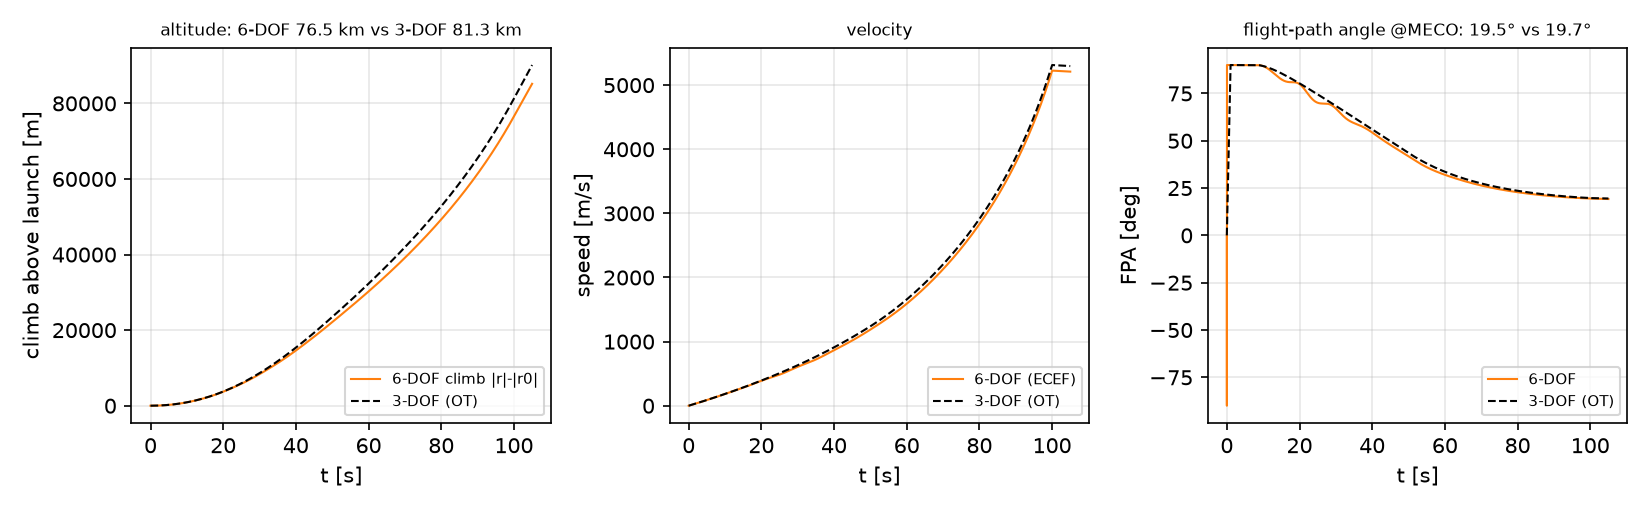
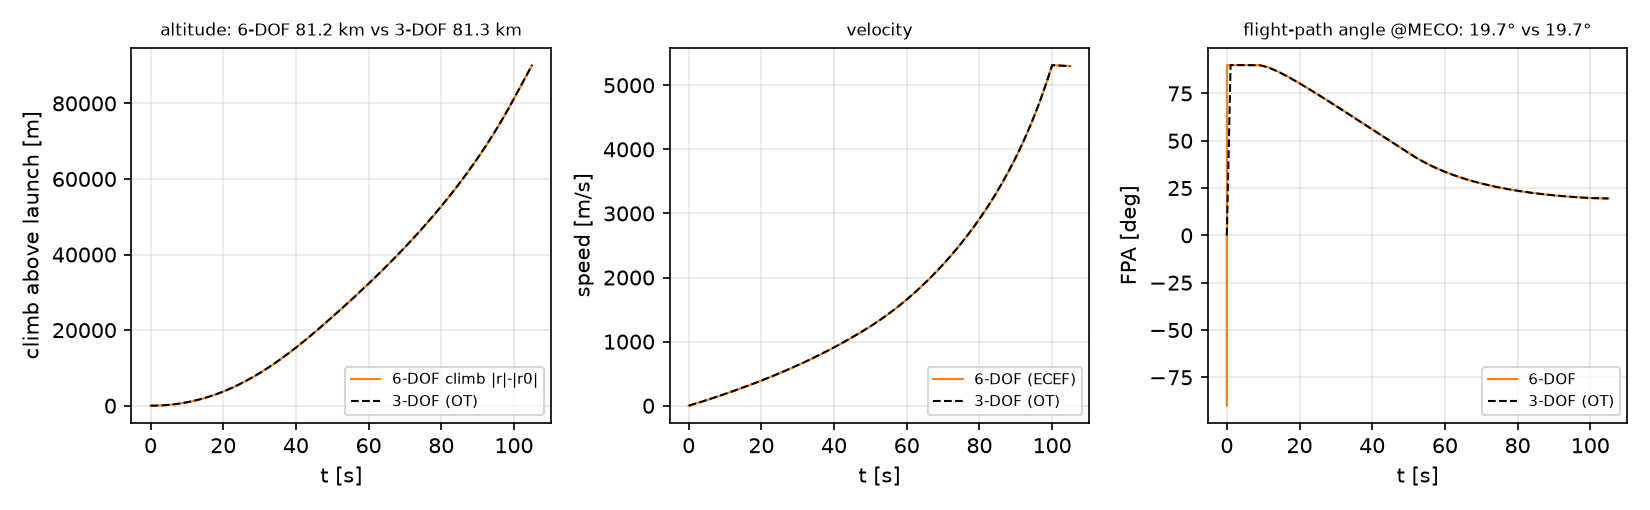
fix(flightlab): correct FL-403 quaternion->DCM and launch IC (FL-403, #208)
tracking.dcm_from_quat returned the transpose of the Tec2b matrix that
jsbsim_driver.quat_from_dcm encodes, and the launch IC roll (phi=90) had
been tuned until that wrong matrix read zero error. In JSBSim's real
attitude the stage sat 180 deg off in roll, so the pitch-over was steered
about the wrong body axes: the ~24 deg early "program-infeasibility
transient" in the ADR was this bug, not the program (the demand is a
constant 1.71 deg/s pitch-over, and the old run used <0.9 deg of the
+-5 deg gimbal while the error was 20 deg).

- dcm_from_quat is now the exact inverse of quat_from_dcm
- launch IC (theta, psi, phi) = (90, 90, -90), checked against Tec2b
  directly (body x up / y south / z east; nose-down tips the nose east)
- same controller and gains: whole-burn error 24.0 -> 0.51 deg, settled
  1.12 -> 0.061 deg, MECO deviation -4.7 km / -90 m/s -> -51 m / -2 m/s
- tests: DCM round trip, IC vs Tec2b, whole-burn bound 30 -> 2 deg,
  commands within travel, MECO bounds 6 km/200 m/s/1 deg -> 500 m/20 m/s/0.2 deg
- benchmark JSON and plots regenerated; ADR and findings corrected (GO
  criteria unchanged; E5 rate-feasibility item downgraded)

diff --git a/tests/test_flightlab_sixdof_tracking_jsbsim.py b/tests/test_flightlab_sixdof_tracking_jsbsim.py
@@ -6,18 +6,21 @@ closed-loop tests need the recorded 3-DOF reference fixture and ``jsbsim``
 skip cleanly when missing.
 
 Declared GO criteria (ADR docs/adr/flightlab-0001-jsbsim-6dof.md):
-* settled attitude tracking (t >= 60 s, after the program-shaping window):
-  max <= 2 deg, RMS <= 0.6 deg -- the early-window error is the documented
-  program-infeasibility transient near vertical, reported but not gating;
+* settled attitude tracking (t >= 60 s): max <= 2 deg, RMS <= 0.6 deg;
 * gimbal saturation 0 % of the burn, command never beyond travel limits;
 * stable integration: dt 0.01 vs 0.005 agree, no non-finite states;
-* MECO state deviation vs the 3-DOF reference within the (generous,
-  transient-inclusive) bounds below.
+* MECO state deviation vs the 3-DOF reference within the bounds below.
+
+Regression guards added with the quaternion->DCM fix: the whole-burn error
+bound is the same 2 deg (it was 30 deg while a transposed DCM plus a launch
+IC tuned against it produced a ~24 deg early "transient"), and the MECO
+bounds sit ~10x above the measured deviations (51 m / 2 m/s / 0.02 deg).
 """
 from __future__ import annotations
 
 import math
 import os
+import warnings
 
 import numpy as np
 import pytest
@@ -32,23 +35,33 @@ pytestmark = pytest.mark.skipif(
            "(scripts/fl403_record_reference.py)")
 
 from orbitopt.flightlab.adapters.opentsiolkovsky import AttitudePoint, Vehicle  # noqa: E402
+from orbitopt.flightlab.sixdof.jsbsim_driver import (  # noqa: E402
+    InitialConditions,
+    SixDofSim,
+    quat_from_dcm,
+)
 from orbitopt.flightlab.sixdof.tracking import (  # noqa: E402
     AttitudeProgram,
     ReferenceTrajectory,
     chart_attitude,
     chart_error_deg,
     attitude_error_body,
+    dcm_from_quat,
     run_tracking_spike,
     so3_log,
 )
 
+LAUNCH_IC = InitialConditions(lat_geod_deg=0.0, lon_deg=0.0, alt_m=0.0,
+                              pitch_deg=90.0, heading_deg=90.0, roll_deg=-90.0)
+
 SETTLE_T_S = 60.0
 SETTLED_MAX_DEG = 2.0
 SETTLED_RMS_DEG = 0.6
-FULL_MAX_DEG = 30.0            # transient-inclusive, program-shaping window
-D_ALT_TOL_M = 6000.0           # transient-inclusive MECO deviation bounds
-D_SPEED_TOL_M_S = 200.0
-D_FPA_TOL_DEG = 1.0
+FULL_MAX_DEG = 2.0             # whole burn, pitch-over kick included
+D_ALT_TOL_M = 500.0            # MECO deviation bounds vs the 3-DOF reference
+D_SPEED_TOL_M_S = 20.0
+D_FPA_TOL_DEG = 0.2
+GIMBAL_TRAVEL_DEG = 5.0
 DT_CONVERGE_ALT_M = 300.0      # dt 0.01 vs 0.005 altitude agreement
 
 
@@ -80,18 +93,54 @@ def test_so3_log_identity():
     assert np.linalg.norm(so3_log(np.eye(3))) < 1e-12
 
 
+def _tec2b(sim):
+    with warnings.catch_warnings():  # get_Tec2b returns a deprecated numpy.matrix
+        warnings.simplefilter("ignore", PendingDeprecationWarning)
+        return np.asarray(sim.fdm.get_propagate().get_Tec2b())
+
+
+def test_dcm_from_quat_inverts_quat_from_dcm():
+    # dcm_from_quat must rebuild exactly the matrix the driver encoded
+    # (Tec2b), not its transpose -- the transpose mis-steered FL-403.
+    rng = np.random.default_rng(7)
+    for _ in range(20):
+        q_mat, _ = np.linalg.qr(rng.normal(size=(3, 3)))
+        q_mat *= np.sign(np.linalg.det(q_mat))
+        assert np.allclose(dcm_from_quat(quat_from_dcm(q_mat)), q_mat, atol=1e-12)
+
+
+def test_launch_ic_matches_program_frame():
+    """Ground truth from JSBSim's own Tec2b (not through dcm_from_quat): at
+    (lat, lon) = (0, 0) ECEF x/y/z = up/east/north, and the program frame at
+    (el=90, az=90) is body x = up, y = south, z = east. A nose-down pitch
+    gimbal then tips the nose east, the program's pitch-over direction."""
+    sim = SixDofSim(0.01)
+    sim.initialize(LAUNCH_IC)
+    tec2b = _tec2b(sim)
+    assert np.allclose(tec2b, [[1, 0, 0], [0, 0, -1], [0, 1, 0]], atol=1e-6)
+    prog = AttitudeProgram.from_points([AttitudePoint(0.0, 90.0, 90.0),
+                                        AttitudePoint(1.0e6, 90.0, 90.0)])
+    assert np.linalg.norm(attitude_error_body(sim.samples[-1], prog)) < 1e-6
+    sim.ignite(1.0)
+    sim.run_for(3.0, lambda t, s: s.set_gimbal(-math.radians(0.2) if t >= 2.0 else 0.0, 0.0))
+    nose = _tec2b(sim)[0]
+    assert nose[1] > 1e-3 and abs(nose[2]) < 1e-6  # east, no north component
+
+
 def test_attitude_error_on_real_sample():
     prog, _, _ = _fixture()
-    # short no-control run: use the real sampled state (all conventions as
-    # the driver reports them) to test the error machinery, not its math
-    from orbitopt.flightlab.sixdof.jsbsim_driver import InitialConditions, SixDofSim
+    # short open-loop run: use the real sampled state (all conventions as
+    # the driver reports them) to test the error machinery, not its math.
+    # An uncontrolled vertical stage stays vertical, so a nose-down gimbal
+    # pulse tips it off the chart pole first.
     sim = SixDofSim(0.01)
-    sim.initialize(InitialConditions(lat_geod_deg=0.0, lon_deg=0.0, alt_m=0.0,
-                                     pitch_deg=90.0, heading_deg=90.0, roll_deg=90.0))
+    sim.initialize(LAUNCH_IC)
     sim.ignite(1.0)
-    sim.run_for(14.0, lambda t, s: None)  # pitch-over under way: chart not at the pole
+    sim.run_for(14.0, lambda t, s: s.set_gimbal(-math.radians(0.5) if 2.0 <= t < 4.0 else 0.0,
+                                                0.0))
     s = sim.samples[-1]
     az_a, el_a = chart_attitude(s)
+    assert math.degrees(el_a) < 85.0  # off the pole
 
     def prog_at(el_off):
         # chart_attitude reports radians; AttitudePoint takes degrees
@@ -113,7 +162,10 @@ def test_closed_loop_full_profile_tracking():
     assert m.finite
     assert m.att_err_max_deg <= FULL_MAX_DEG
     assert m.gimbal_sat_fraction_of_burn == 0.0
-    assert m.gimbal_max_deg < 5.0
+    assert m.gimbal_max_deg < GIMBAL_TRAVEL_DEG
+    burn = [s for s in res.samples if s["t_s"] <= meco]
+    assert max(max(abs(s["gimbal_pitch_cmd_rad"]), abs(s["gimbal_yaw_cmd_rad"]))
+               for s in burn) < math.radians(GIMBAL_TRAVEL_DEG)
     s_max, s_rms = _settled(res)
     assert s_max <= SETTLED_MAX_DEG
     assert s_rms <= SETTLED_RMS_DEG

diff --git a/src/orbitopt/flightlab/sixdof/tracking.py b/src/orbitopt/flightlab/sixdof/tracking.py
@@ -29,11 +29,12 @@ Controller
 geodesic attitude error :func:`attitude_error_body` (components in the
 actual body frame): ``a = kp*e + ki*I - kd*(omega - omega_ff)`` [rad/s^2]
 with the pitch channel's velocity feed-forward ``omega_ff_y = el_ff`` (the
-program's elevation slew). The chart-elevation law ``d(el)/dt = q*cos(el) +
-v_h/(R+h)*cos(el - FPA)`` near vertical makes a fast elevation ramp
-kinematically unachievable for a TVC vehicle at low speed, so early-phase
-tracking error is a property of the *program*, not the loop (spike
-finding; see the ADR); from the settled phase on, tracking is sub-degree.
+program's elevation slew; body pitch rate changes elevation directly, so
+the 1.71 deg/s pitch-over is well within TVC authority). Whole-burn
+tracking stays sub-degree (peak ~0.5 deg at the t=8 s pitch-over kick). An
+earlier revision reported a ~24 deg early "program-infeasibility transient";
+it was a transposed :func:`dcm_from_quat` plus a launch IC tuned against
+it, not a property of the program (see the ADR).
 The desired body angular acceleration is converted to a gimbal command
 with the *instruments of the moment*: ``cmd = I * alpha / (T * arm)``,
 using the live thrust, inertia and CG the model reports -- a gain schedule
@@ -80,10 +81,13 @@ def dcm_from_quat(q: tuple[float, float, float, float]) -> np.ndarray:
     """Rows = body x/y/z axes expressed in ECEF, from the FL-401 convention
     ``R(q) = Tec2b`` (so this is just ``R(q)`` reconstructed)."""
     w, x, y, z = q
+    # Exact inverse of jsbsim_driver.quat_from_dcm (standard scalar-first
+    # R(q)); the transpose here would silently swap ECEF->body for
+    # body->ECEF and mis-steer the controller.
     return np.array([
-        [1 - 2 * (y * y + z * z), 2 * (x * y + w * z), 2 * (x * z - w * y)],
-        [2 * (x * y - w * z), 1 - 2 * (x * x + z * z), 2 * (y * z + w * x)],
-        [2 * (x * z + w * y), 2 * (y * z - w * x), 1 - 2 * (x * x + y * y)],
+        [1 - 2 * (y * y + z * z), 2 * (x * y - w * z), 2 * (x * z + w * y)],
+        [2 * (x * y + w * z), 1 - 2 * (x * x + z * z), 2 * (y * z - w * x)],
+        [2 * (x * z - w * y), 2 * (y * z + w * x), 1 - 2 * (x * x + y * y)],
     ])
 
 
@@ -437,11 +441,13 @@ def run_tracking_spike(reference: ReferenceTrajectory, program: AttitudeProgram,
     if sim is None:
         sim = SixDofSim(dt_s)
     if ic is None:
-        # JSBSim's IC Euler->quaternion init differs from its runtime
-        # convention; (theta=90, psi=90, phi=90) is the empirically verified
-        # set that places the body on the program chart's (el=90, az=90).
+        # (theta=90, psi=90, phi=-90) puts the body exactly on the program
+        # chart's (el=90, az=90) frame, roll included: Tec2b gives body
+        # x = up, y = south, z = east at (0, 0), so a nose-down pitch tips
+        # the nose east (checked against Tec2b directly, not through
+        # dcm_from_quat -- see test_launch_ic_matches_program_frame).
         ic = InitialConditions(lat_geod_deg=0.0, lon_deg=0.0, alt_m=0.0,
-                               pitch_deg=90.0, heading_deg=90.0, roll_deg=90.0)
+                               pitch_deg=90.0, heading_deg=90.0, roll_deg=-90.0)
     sim.initialize(ic)
     r0 = math.sqrt(sim.samples[0]["x_m"] ** 2 + sim.samples[0]["y_m"] ** 2
                    + sim.samples[0]["z_m"] ** 2)

diff --git a/scripts/fl403_run_spike.py b/scripts/fl403_run_spike.py
@@ -69,16 +69,16 @@ def _plot_tracking(results):
         ts, es = _err_curve(results[dt_key])
         ax.semilogy(ts, es, style, lw=1.0, label=f"{dt_key} s (max {results[dt_key].metrics.att_err_max_deg:.1f}°)")
     ax.axvline(SETTLE_T_S, color="grey", lw=0.8)
-    ax.text(SETTLE_T_S + 0.7, 1e-2, "settled\nwindow", fontsize=7, color="grey")
+    ax.text(SETTLE_T_S + 0.7, 2e-3, "settled\nwindow", fontsize=7, color="grey")
     ax.axhline(2.0, color="tab:red", lw=0.8, ls=":")
-    ax.text(2, 2.3, "settled max bound 2°", fontsize=7, color="tab:red")
+    ax.text(2, 2.3, "max bound 2° (whole burn)", fontsize=7, color="tab:red")
     ax.set_yscale("log")
-    ax.set_ylim(1e-2, 40)
+    ax.set_ylim(1e-3, 5)
     ax.set_xlabel("t [s]")
     ax.set_ylabel("attitude error vs program [deg]")
     ax.set_title("FL-403: PID gimbal tracking of the 3-DOF attitude program\n"
-                 "early peak ~24° is the program-infeasibility transient near vertical (t<60 s); "
-                 "settled ≤1.2°", fontsize=8)
+                 f"full profile max {results['dt0.01'].metrics.att_err_max_deg:.2f}° "
+                 "(pitch-over start at t=8 s); bound 2° over the whole burn", fontsize=8)
     ax.legend(fontsize=7, loc="upper right")
     ax.grid(alpha=0.3)
 
@@ -190,9 +190,10 @@ def main() -> int:
         "reference": "OT 3-DOF fl403_spike fixture (e2=18 deg)",
         "gains": {"kp": 3.0, "ki": 0.01, "kd": 4.0, "i_max_alpha_rad_s2": 0.05},
         "settled_window_t_ge_60s": {f"dt_{k}": _settled(res) for k, res in results.items()},
-        "notes": "att_err_max/rms fields cover t in [0.5,100]; the large early-window numbers "
-                 "are the documented program-infeasibility transient near vertical (el-rate "
-                 "demanded at el~90 is unachievable by TVC at low speed).",
+        "notes": "att_err_max/rms fields cover t in [0.5,100]; the peak is the pitch-over "
+                 "kick at t=8 s (program el-rate step 0 -> -1.71 deg/s). An earlier revision "
+                 "reported a ~24 deg 'program-infeasibility transient' that was a transposed "
+                 "quaternion->DCM in tracking.py plus a launch IC tuned against it.",
     }
     OUT_JSON.parent.mkdir(parents=True, exist_ok=True)
     OUT_JSON.write_text(json.dumps(out, indent=2) + "\n")

diff --git a/docs/adr/flightlab-0001-jsbsim-6dof.md b/docs/adr/flightlab-0001-jsbsim-6dof.md
@@ -1,7 +1,7 @@
 # ADR flightlab-0001: JSBSim as the 6-DOF engine for Flight Lab ascent
 
 - **Status:** Accepted — **GO**
-- **Date:** 2026-11-11
+- **Date:** 2026-11-11 (FL-403 numbers corrected 2026-11-11, see "Correction")
 - **Deciders:** Flight Lab E4 spike (Epic #196; FL-401 #206, FL-402 #207, FL-403 #208)
 - **ContextDB:** `epic187/jsbsim-go-no-go`
 
@@ -38,8 +38,8 @@ the FL-401/402 test files):
    MECO+5 s (~76 km, Mach 18); dt-halving (0.01 → 0.005 s) agreement:
    MECO altitude < 300 m, speed < 20 m/s, FPA < 0.5°.
 4. **Trajectory stays near the 3-DOF reference.** At MECO: |Δalt| ≤ 6 km,
-   |Δv| ≤ 200 m/s, |ΔFPA| ≤ 1.0° (generous, transient-inclusive bounds —
-   the 6-DOF vehicle must fly its own attitude schedule, not the 3-DOF one).
+   |Δv| ≤ 200 m/s, |ΔFPA| ≤ 1.0° (generous bounds — the 6-DOF vehicle
+   must fly its own attitude schedule, not the 3-DOF one).
 5. **Separation works** (FL-402 criteria): momentum residual < 1e-6 rel,
    position continuity < 1 mm, determinism across reruns and step orders.
 
@@ -58,16 +58,17 @@ command and physics.
 
 | Criterion | Bound | dt = 0.01 s | dt = 0.005 s | Verdict |
 |---|---|---|---|---|
-| Settled attitude error max (t ≥ 60 s) | ≤ 2.0° | **1.12°** | **1.12°** | PASS |
-| Settled attitude error RMS | ≤ 0.6° | **0.52°** | **0.52°** | PASS |
+| Settled attitude error max (t ≥ 60 s) | ≤ 2.0° | **0.061°** | **0.061°** | PASS |
+| Settled attitude error RMS | ≤ 0.6° | **0.036°** | **0.036°** | PASS |
+| Whole-burn attitude error max (t ∈ [0.5, 100] s) | report (regression guard ≤ 2.0°) | 0.51° | 0.49° | PASS |
 | Gimbal saturation (actuator at ±5° limit) | 0 % of burn | **0.0 %** | **0.0 %** | PASS |
-| Peak gimbal deflection | < 5° travel | 0.86° | 0.84° | PASS |
-| Body rates (max p / q / r) | report only | ~0 / 15.8 / 14.0 °/s | ~0 / 15.5 / 13.8 °/s | report |
-| MECO altitude deviation (ECEF climb vs OT alt) | ±6 km | **−4.71 km** (76.55 vs 81.25 km) | −4.67 km | PASS |
-| MECO speed deviation | ±200 m/s | **−89.8 m/s** (5224.0 vs 5313.8) | −89.2 m/s | PASS |
-| MECO FPA deviation | ±1.0° | **−0.25°** (19.45° vs 19.71°) | −0.25° | PASS |
-| MECO Mach / altitude (stress point) | finite states | Mach 18.2 @ ~76.5 km | Mach 18.2 | PASS |
-| dt-halving: MECO altitude / speed / FPA | <300 m / <20 m/s / <0.5° | **40 m / 0.58 m/s / 0.006°** | — | PASS |
+| Peak gimbal deflection (actual; commands also < 5°) | < 5° travel | 0.42° | 0.41° | PASS |
+| Body rates (max p / q / r) | report only | ~0 / 2.35 / ~0 °/s | ~0 / 2.32 / ~0 °/s | report |
+| MECO altitude deviation (ECEF climb vs OT alt) | ±6 km | **−51 m** (81.20 vs 81.25 km) | −21 m | PASS |
+| MECO speed deviation | ±200 m/s | **−2.0 m/s** (5311.8 vs 5313.8) | −1.2 m/s | PASS |
+| MECO FPA deviation | ±1.0° | **+0.016°** (19.72° vs 19.71°) | +0.019° | PASS |
+| MECO Mach / altitude (stress point) | finite states | Mach 18.9 @ ~81.2 km | Mach 18.9 | PASS |
+| dt-halving: MECO altitude / speed / FPA | <300 m / <20 m/s / <0.5° | **30 m / 0.85 m/s / 0.003°** | — | PASS |
 | Non-finite states | none | none | none | PASS |
 | Separation (FL-402) | momentum 1e-6 rel, pos 1 mm | 1.4e-8 rel / 2.1e-7 m, bit-identical reruns & step orders | — | PASS |
 
@@ -75,19 +76,36 @@ command and physics.
 ![FL-403 gimbal commands vs actuator outputs](../assets/fl403_gimbal.png)
 ![FL-403 6-DOF vs 3-DOF trajectory](../assets/fl403_meco_deviation.png)
 
-### The one caveat, by design: the early program transient
+### Correction: the "early program transient" was a bug
 
-The full-profile (t ∈ [0.5, 100] s) error peaks at **24.0°** — *not* a
-control failure. The 3-DOF OT program ramps elevation from 90° toward 18°
-with a slew the chart law `d(el)/dt = q·cos(el) + …` makes **kinematically
-unachievable for a TVC vehicle near vertical at low speed** (cos(el) → 0
-kills the pitch authority to change elevation). The 6-DOF vehicle lags, the
-loop recovers as the program flattens, and from t = 60 s tracking is
-sub-degree and stays that way through MECO at Mach 18. FL-401's open-loop
-run shows the same lag with *no* controller — the discrepancy is a property
-of the program, not of the simulator or the loop. **Consequence:** any
-production 6-DOF program generator must rate-limit attitude commands in body
-rates, not just in chart angles.
+The first revision of this ADR reported a **24°** whole-burn error peak in
+t < 60 s and explained it as a program the TVC vehicle could not fly near
+vertical (`d(el)/dt = q·cos(el)`, "cos(el) → 0 kills pitch authority"). That
+explanation was wrong, and acceptance review traced the real cause:
+
+- `tracking.dcm_from_quat` returned the **transpose** of the matrix
+  `jsbsim_driver.quat_from_dcm` encodes (body→ECEF instead of `Tec2b`), so
+  every attitude quantity the controller and the metrics used was rotated;
+- the launch IC `(θ, ψ, φ) = (90°, 90°, 90°)` had been "empirically" tuned so
+  that this wrong matrix read zero error at liftoff; in JSBSim's real
+  attitude it sat **180° off in roll**, so the pitch-over was steered about
+  the wrong body axes (azimuth swung 59°–138° while the program held 90°).
+
+Evidence that it was never the program: the demanded pitch-over is a
+constant 1.71 °/s, body pitch rate changes elevation directly (the cos(el)
+factor belongs to azimuth), the open-loop plant is decoupled (a pitch
+gimbal step produces only q, a yaw step only r, both matching
+`T·sin δ·arm/I` to 0.1 %), and the old run used at most 0.86° of the ±5°
+gimbal while the error was 20°.
+
+With `dcm_from_quat` fixed (regression test: exact round trip with
+`quat_from_dcm`) and the IC set to `(90°, 90°, −90°)` — checked against
+JSBSim's `Tec2b` directly: body x = up, y = south, z = east, and a nose-down
+gimbal tips the nose east — the same controller and gains track the
+whole burn within 0.51°, and the MECO deviation drops from −4.7 km /
+−90 m/s to −51 m / −2 m/s. The declared GO criteria are unchanged; the
+tests now also guard the whole-burn error (≤ 2°), commands within travel,
+and tighter MECO bounds (500 m / 20 m/s / 0.2°).
 
 ## Decision: **GO**
 
@@ -97,8 +115,9 @@ the thin `SixDofSim` driver, is viable as the E4+ 6-DOF engine:
 - physics bookkeeping is exact where it is checkable (FL-401 table:
   Tsiolkovsky to 2e-4 rel, TVC moment exact to 1 %, actuator lag 0.03 %);
 - a naïve gain-scheduled PID saturates nothing and holds sub-degree tracking
-  through max-q-free (no aero), high Mach, 76 km — headroom for a real
-  controller and real aerodynamics;
+  over the whole burn (0.51° peak, 0.06° settled) through max-q-free (no
+  aero), Mach 19, 81 km — headroom for a real controller and real
+  aerodynamics;
 - two instances + a proven state-handoff recipe make staging a first-class
   contract (`to_flight_run` already emits a valid three-body FlightRun v1);
 - costs are known and bounded: first-order-in-dt convergence (one-frame
@@ -115,17 +134,21 @@ dependency.
 Negative / accepted: dt-halving convergence is first order (fine for a
 display/fidelity layer, would need care in an accuracy budget); jsbsim
 wheels exist only for CPython 3.10+/x86_64 macOS+Linux (fine per current
-targets); program feasibility (rate-limited attitude) becomes **our** job,
-not the simulator's; the 24° early transient is real and must be designed
-around, not tested away.
+targets); attitude conventions (quaternion/DCM direction, launch IC roll)
+are ours to get right and must be tested against JSBSim's own `Tec2b`,
+not against our own helpers — the FL-403 correction above is the cautionary
+example.
 
 ## Follow-up epic draft: "6-DOF ascent & recovery tracking" (E5)
 
 1. Promote the spike driver into `orbitopt.flightlab.sixdof` proper:
    contract-typed `SixDofRun`, config-driven models, no spike fixtures.
-2. **Rate-feasible attitude program generator** (body-rate limits from plant
-   authority `T·arm/I`) so the 6-DOF vehicle can fly its own commands;
-   regression = FL-403 test with the early-window bound tightened.
+2. **Attitude program generator with authority check** (body-rate and
+   angular-acceleration limits from plant authority `T·arm/I`), so programs
+   faster than FL-403's 1.71 °/s pitch-over are validated before flight.
+   Downgraded from "required": the earlier near-vertical infeasibility
+   finding was a conversion bug (see Correction), and the FL-403 program
+   is flown within 0.51° as is.
 3. Real aerodynamics: drag/ST tables on the stage, max-q regression, then
    gravity-turn ascent end-to-end vs 3-DOF with aero on both sides.
 4. Staging through the contract: E4 recipe (FL-402) + booster reuse arc and

diff --git a/docs/flightlab-jsbsim-spike-findings.md b/docs/flightlab-jsbsim-spike-findings.md
@@ -147,15 +147,26 @@ metrics regenerate via `scripts/fl403_run_spike.py`.
 
 ## Numbers (dt = 0.01 s; full table in the ADR)
 
-Settled (t ≥ 60 s) attitude error **1.12° max / 0.52° RMS**; gimbal
-saturation **0.0 %** of burn, peak deflection 0.86° of ±5° travel; MECO
-deviation vs 3-DOF: **−4.7 km alt / −90 m/s / −0.25° FPA**; dt-halving
-agreement 40 m / 0.58 m/s / 0.006°; no non-finite states to MECO+5 s at
-Mach 18. Full-profile error peaks at 24° in the first 60 s — the 3-DOF
-program's near-vertical elevation slew is kinematically unachievable by TVC
-(cos(el) → 0), an open-loop FL-401 run shows the same lag with no controller:
-a property of the program, not of the loop. Production programs must be
-rate-limited in body rates.
+Whole-burn attitude error **0.51° max** (the t = 8 s pitch-over kick),
+settled (t ≥ 60 s) **0.061° max / 0.036° RMS**; gimbal saturation **0.0 %**
+of burn, peak deflection 0.42° of ±5° travel (commands also within travel);
+MECO deviation vs 3-DOF: **−51 m alt / −2.0 m/s / +0.016° FPA**; dt-halving
+agreement 30 m / 0.85 m/s / 0.003°; no non-finite states to MECO+5 s at
+Mach 18.9.
+
+## Gotcha found in acceptance: quaternion→DCM direction
+
+The first FL-403 revision reported a 24° early error and blamed the
+program (near-vertical elevation slew "unachievable by TVC"). The real
+cause was ours: `tracking.dcm_from_quat` returned the transpose of the
+`Tec2b` that `jsbsim_driver.quat_from_dcm` encodes, and the launch IC roll
+(φ = 90°) had been tuned until that wrong matrix read zero error — in
+JSBSim's real attitude it was 180° off in roll, so pitch-over was steered
+about the wrong body axes. Fixed: exact `dcm_from_quat`/`quat_from_dcm`
+round trip, IC `(θ, ψ, φ) = (90°, 90°, −90°)` verified against `Tec2b`
+itself (body x up / y south / z east; a nose-down gimbal tips the nose
+east). Lesson: check attitude conventions against JSBSim's own matrices,
+never only against our own helpers.
 
 ## Verdict
 
